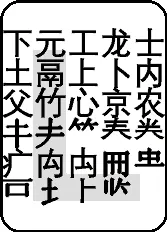
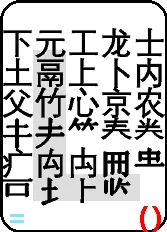
打印6寸

Changed region(s): [[0.8383, 0.875, 0.988, 1.0], [0.0599, 0.9052, 0.1497, 0.9655]]

diff --git a/字根画键.py b/字根画键.py
@@ -36,6 +36,7 @@ char_font3: Set[str] = {
     "𦫻", "𢀖", "𦭝", "𣎆", "𭤨", "𬜠", "𡨄", "𠮦", "𠂔", "𠔿", "𡭔",
 }
 back_car_orange: str = "QWERTASDFGZXCVB"
+num_key: str = "QWERTYUIOP"
 
 
 class FontManager:
@@ -88,7 +89,7 @@ class Handle:
     def __init__(self):
         pass
 
-    def draw(self, f: FontManager, back_car, text: str, width: int = 167, height: int = 232):
+    def draw(self, f: FontManager, back_car, symbol, text: str, swipe_down: str = "", width: int = 167, height: int = 232):
         image = Image.new("RGB", (width, height), "white")
         draw = ImageDraw.Draw(image)
 
@@ -109,8 +110,23 @@ class Handle:
         back_color = (255, 204, 153) if back_car in back_car_orange else (221, 221, 221)
         b_x, b_y, b_height = f.get_center_pix(width, height, f=back_font, text=back_car)
         draw.text(xy=(b_x, b_y - 90), text=back_car, fill=back_color, font=back_font)
+        # 绘制长按符号
+        long_font = ImageFont.truetype(font=r"C:\Windows\Fonts\msyhbd.ttc", size=28)  # r"C:\Windows\Fonts\dengb.ttf"
+        if back_car in num_key:  # 数字置顶
+            draw.text(xy=(round(width / 2) - 7, -6), text=symbol, fill=(255, 0, 0), font=long_font)
+        elif back_car in "AXCV":  # 汉字：全选复制粘贴剪切
+            draw.text(xy=(width - 58, height - 30), text=symbol, fill=(255, 0, 0), font=long_font)
+        elif back_car in "FKL":  # 多个符号
+            draw.text(xy=(width - 45, height - 35), text=symbol, fill=(255, 0, 0), font=long_font)
+        elif back_car in "GS":  # 多个符号，特殊
+            draw.text(xy=(width - 80, height - 33), text=symbol, fill=(255, 0, 0), font=long_font)
+        else:  # 单个符号
+            draw.text(xy=(width - 28, height - 37), text=symbol, fill=(255, 0, 0), font=long_font)
+        # 绘制下滑符号
+        if swipe_down != "":
+            draw.text(xy=(7, height - 35), text=swipe_down, fill=(130, 230, 255), font=long_font)
 
-        # 绘制字符
+        # 绘制字根
         c_color = "black"
         text_line_num = text.count("\n") + 1
         x, y, c_height = f.get_center_pix(
@@ -160,6 +176,7 @@ class Handle:
             [
                 0, 0, 0,  # 黑色
                 255, 0, 0,  # 红色
+                130, 230, 255,  # 蓝色
                 255, 255, 255,  # 白色
                 255, 204, 153,  # 浅橙色
                 95, 95, 95,  # 灰色
@@ -183,32 +200,32 @@ def main():
     # print(f"CairoSVG版本：{cairosvg.__version__}")
     h = Handle()
 
-    h.draw(FontManager(size=41), back_car="A", text="于亍丁厂\n牙由曲甲\n几仑尔欠\n前广马丑\n壴䒑\n彑")
-    h.draw(FontManager(size=41), back_car="B", text="更髟歹屯\n目且虫长\n代乎争夕\n以辟亠\n镸\n丩")
-    h.draw(FontManager(size=40), back_car="C", text="丽赤小四\n皿公牛合\n禾了尹奴\n彐罒\n\n牜厶")
-    h.draw(FontManager(size=33), back_car="D", text="石未末耒甘\n廿执贝虍人\n入白鱼卑豸\n殳酋穴也糸\n𭤨丆𬜠\n")
-    h.draw(FontManager(size=162), back_car="E", text="一")
-    h.draw(FontManager(size=41), back_car="F", text="天者甫见\n从夭彳八\n鸟门又双\n艹卌𰀃\n耂")
-    h.draw(FontManager(size=41), back_car="G", text="可其至里\n田畀生先\n段九已己\n巴巳扌\n")
-    h.draw(FontManager(size=33), back_car="H", text="不青直面平\n圭豆豕止齿\n凹凸光月乂\n角立单亥予\n矛艮忄礻衤\n𡨄吅㠯\n⺝㐅厃")
-    h.draw(FontManager(size=162), back_car="I", text="丨")
-    h.draw(FontManager(size=40), back_car="J", text="一夫五丌\n兀瓦韦寸\n业自告勿\n衣半㐄\n亻\n丨丶丿")
-    h.draw(FontManager(size=41), back_car="K", text="大正戊弋\n戈戋敖口\n囗片之主\n羊尺爿\n𠮦勹\n戉")
-    h.draw(FontManager(size=33), back_car="L", text="下元工龙士\n土鬲上卜内\n父竹心京农\n\n疒禸⽱\n⺊")
-    h.draw(FontManager(size=41), back_car="M", text="走云林区\n比折骨氏\n隹方音鹿\n女疋龰\n释")
-    h.draw(FontManager(size=33), back_car="N", text="开干吉页七\n廾水手千匕\n舌文义辛\n氺氵灬\n刂𡭔夂\n旡")
-    h.draw(FontManager(size=162), back_car="O", text="ノ")
-    h.draw(FontManager(size=33), back_car="P", text="三十犬尧共\n雨食舟卯定\n次火亦乙幺\n𦫻犭\n饣\n𢀖乚")
-    h.draw(FontManager(size=41), back_car="Q", text="革臣因旦\n今令丘斤\n六米民叚\n朿\n亼冖㐫㡀")
-    h.draw(FontManager(size=81), back_car="R", text="丶辶\n廴")
-    h.draw(FontManager(size=41), back_car="S", text="王示亚是\n呆分壬鬼\n及言子孑\n聿刀凵\n冂讠屰")
-    h.draw(FontManager(size=41), back_car="T", text="才木西酉\n此占用鼠\n久臼户加\n甬乛㇕\nㄅ㇉㇡覀\n朩")
-    h.draw(FontManager(size=162), back_car="U", text="㇡")  # ㄋ
-    h.draw(FontManager(size=41), back_car="V", text="相古中少\n气矢金母\n毋毌匚コ\n钅\n宀")
-    h.draw(FontManager(size=33), back_car="W", text="去求万日曰\n我毛川象曾\n力乃⺀冫丷\n𰀆𦭝丂\n彡巛卩")
-    h.draw(FontManager(size=41), back_car="X", text="丰尢回黑\n儿刍弟亡\n发弓\n纟\n𠂔𠔿")
-    h.draw(FontManager(size=33), back_car="Y", text="而二莫辰车\n井耳堇山巾\n化缶瓜爪麻\n兼习羽落\n爫癶屮\n阝𣎆車")
-    h.draw(FontManager(size=49), back_car="Z", text="束非北\n身垂各\n乍皮尸\n\n丬")
+    h.draw(FontManager(size=41), back_car="A", symbol="全选", text="于亍丁厂\n牙由曲甲\n几仑尔欠\n前广马丑\n壴䒑\n彑")
+    h.draw(FontManager(size=41), back_car="B", symbol="；", swipe_down="\\、", text="更髟歹屯\n目且虫长\n代乎争夕\n以辟亠\n镸\n丩")
+    h.draw(FontManager(size=40), back_car="C", symbol="复制", text="丽赤小四\n皿公牛合\n禾了尹奴\n彐罒\n\n牜厶")
+    h.draw(FontManager(size=33), back_car="D", symbol="#", text="石未末耒甘\n廿执贝虍人\n入白鱼卑豸\n殳酋穴也糸\n𭤨丆𬜠\n")
+    h.draw(FontManager(size=162), back_car="E", symbol="3", text="一")
+    h.draw(FontManager(size=41), back_car="F", symbol="$￥", text="天者甫见\n从夭彳八\n鸟门又双\n艹卌𰀃\n耂")
+    h.draw(FontManager(size=41), back_car="G", symbol="%℃°", text="可其至里\n田畀生先\n段九已己\n巴巳扌\n")
+    h.draw(FontManager(size=33), back_car="H", symbol="！", swipe_down="+", text="不青直面平\n圭豆豕止齿\n凹凸光月乂\n角立单亥予\n矛艮忄礻衤\n𡨄吅㠯\n⺝㐅厃")
+    h.draw(FontManager(size=162), back_car="I", symbol="8", text="丨")
+    h.draw(FontManager(size=40), back_car="J", symbol="&", swipe_down="-", text="一夫五丌\n兀瓦韦寸\n业自告勿\n衣半㐄\n亻\n丨丶丿")
+    h.draw(FontManager(size=41), back_car="K", symbol="*・", swipe_down="——", text="大正戊弋\n戈戋敖口\n囗片之主\n羊尺爿\n𠮦勹\n戉")
+    h.draw(FontManager(size=33), back_car="L", symbol="（）", swipe_down="=", text="下元工龙士\n土鬲上卜内\n父竹心京农\n\n疒禸⽱\n⺊")
+    h.draw(FontManager(size=41), back_car="M", symbol="？", swipe_down="|", text="走云林区\n比折骨氏\n隹方音鹿\n女疋龰\n释")
+    h.draw(FontManager(size=33), back_car="N", symbol="：", text="开干吉页七\n廾水手千匕\n舌文义辛\n氺氵灬\n刂𡭔夂\n旡")
+    h.draw(FontManager(size=162), back_car="O", symbol="9", text="ノ")
+    h.draw(FontManager(size=33), back_car="P", symbol="0", text="三十犬尧共\n雨食舟卯定\n次火亦乙幺\n𦫻犭\n饣\n𢀖乚")
+    h.draw(FontManager(size=41), back_car="Q", symbol="1", text="革臣因旦\n今令丘斤\n六米民叚\n朿\n亼冖㐫㡀")
+    h.draw(FontManager(size=81), back_car="R", symbol="4", text="丶辶\n廴")
+    h.draw(FontManager(size=41), back_car="S", symbol="@®©", text="王示亚是\n呆分壬鬼\n及言子孑\n聿刀凵\n冂讠屰")
+    h.draw(FontManager(size=41), back_car="T", symbol="5", text="才木西酉\n此占用鼠\n久臼户加\n甬乛㇕\nㄅ㇉㇡覀\n朩")
+    h.draw(FontManager(size=162), back_car="U", symbol="7", text="㇡")  # ㄋ
+    h.draw(FontManager(size=41), back_car="V", symbol="粘贴", text="相古中少\n气矢金母\n毋毌匚コ\n钅\n宀")
+    h.draw(FontManager(size=33), back_car="W", symbol="2", text="去求万日曰\n我毛川象曾\n力乃⺀冫丷\n𰀆𦭝丂\n彡巛卩")
+    h.draw(FontManager(size=41), back_car="X", symbol="剪切", swipe_down="{", text="丰尢回黑\n儿刍弟亡\n发弓\n纟\n𠂔𠔿")
+    h.draw(FontManager(size=33), back_car="Y", symbol="6", text="而二莫辰车\n井耳堇山巾\n化缶瓜爪麻\n兼习羽落\n爫癶屮\n阝𣎆車")
+    h.draw(FontManager(size=49), back_car="Z", symbol="\"", swipe_down="[", text="束非北\n身垂各\n乍皮尸\n\n丬")
 
 
 if __name__ == "__main__":

diff --git a/字根画26键.py b/字根画26键.py
@@ -5,6 +5,10 @@ from PIL import Image, ImageDraw, ImageFont
 key_images: str = "qwertyuiopasdfghjklzxcvbnm"
 
 
+# 六寸相纸（无白边打印）：152*102毫米，打印像素：1685*1131pix
+# 相框可装尺寸：151*111毫米，能装下6寸相纸
+# 显示屏16:9，照片像素应为：1685*948pix，上下空白像素应为116
+
 class Handle:
     def __init__(self):
         pass
@@ -12,10 +16,10 @@ class Handle:
     def draw26(self):
         key_width = 167
         key_height = 232
-        padding_h = 1  # 键之间的距离：水平方向
-        padding_v = 10  # 键之间的距离：竖直方向
-        lr: int = 3  # 画布左、右空白像素
-        ud: int = 116  # 画布上、下空白像素，116
+        padding_h = -2  # 键之间的距离：水平方向
+        padding_v = 15  # 键之间的距离：竖直方向
+        lr: int = 30  # 画布左、右空白像素
+        ud: int = 211  # 画布上、下空白像素
         keyboard_layout = [
             list("qwertyuiop"),
             list("asdfghjkl"),
@@ -58,6 +62,7 @@ class Handle:
             [
                 0, 0, 0,  # 黑色
                 255, 0, 0,  # 红色
+                130, 230, 255,  # 蓝色
                 255, 255, 255,  # 白色
                 255, 204, 153,  # 浅橙色
                 95, 95, 95,  # 灰色
